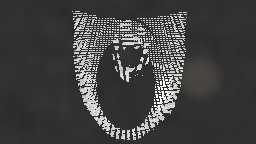
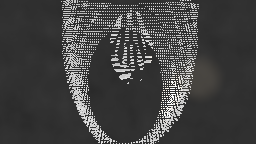
T1205: E44 Sounding sizes its cloud — pointTransform's first example
T728's complaint is nodes that appear in no example. This is the one where
the node is not a decoration: E44's cloud size was NOT AUTHORABLE.

`cloud1.sizeX/sizeY` are pinned at exactly 2.0 by T830 because `tint1` reads
`position.xy` back as a UV — they are a data contract, not a size, and the
file's own note records what 2.6x1.95 did to the picture. `draw1.scale` sizes
each BOX, so turning it up fuses the lattice into a slab. And the camera cannot
do it either, because `plate1` adds the source at full frame, so an eye move
slides the cloud against a backdrop that does not move. Three levers, none of
them the one wanted — which is the owner's complaint in a shipped file.

`xform1` sits between the bridge and the draw: upstream the cloud is still on
the clip square and T830 holds, downstream it is 1.2x and fills the margins the
shot was wasting. The boxes do not grow with it, which is the whole distinction.
Pivot centroid, doing real work rather than taking a default: this sheet's middle
in z is wherever the model put it and it moves, so an origin pivot would surge it
toward and away from the lens whenever the content changed depth.

1.2 was rendered, not reasoned: 1.3 pushes the sheet's outer arc onto the frame
edge (a cropped gallery card) and further still the relief reads as separate
motes rather than a surface. Both were built and looked at.

LOOK DELTA, deliberate, per V642/V643: motion 0.07293 -> 0.09205 (+26.2%),
[…]

Changed region(s): [[0.2188, 0.0, 0.7812, 1.0]]

diff --git a/src/examples/sounding-claims.gpu.test.ts b/src/examples/sounding-claims.gpu.test.ts
@@ -23,6 +23,8 @@ const document = EXAMPLE_DOCUMENTS.find((entry) => entry.name === "E44 Sounding"
 const SIZE = 128;
 /* T1076: a one-attribute producer's packed buffer IS the position region. */
 const POSITION = pointStorageId("cloud");
+/* T1205: and the same, for the positions AFTER `xform1` — the ones actually drawn. */
+const DRAWN = pointStorageId("xform");
 
 let dawnError: string | undefined;
 beforeAll(async () => {
@@ -59,11 +61,32 @@ async function positions(map: Uint8Array): Promise<Float32Array> {
     capture: [1],
     animate: true,
     inference: () => map,
-    probeBuffers: [POSITION],
+    probeBuffers: [POSITION, DRAWN],
   } as never);
   const raw = result.buffers?.[POSITION];
   expect(raw, `no position buffer for ${POSITION}`).toBeDefined();
+  const drawn = result.buffers?.[DRAWN];
+  expect(drawn, `no position buffer for ${DRAWN}`).toBeDefined();
   return new Float32Array(raw!);
+}
+
+/** Both halves of the chain at once: what the bridge reads, and what the draw draws. */
+async function bothSides(map: Uint8Array): Promise<{ read: Float32Array; drawn: Float32Array }> {
+  const result = await renderHeadless({
+    host: nodeGpuHost(),
+    graph: document!.graph as GraphDocument,
+    settings: { ...document!.settings, outputResolution: { width: SIZE, height: SIZE } },
+    frames: 2,
+    capture: [1],
+    animate: true,
+    inference: () => map,
+    probeBuffers: [POSITION, DRAWN],
+  } as never);
+  const read = result.buffers?.[POSITION];
+  const drawn = result.buffers?.[DRAWN];
+  expect(read, `no position buffer for ${POSITION}`).toBeDefined();
+  expect(drawn, `no position buffer for ${DRAWN}`).toBeDefined();
+  return { read: new Float32Array(read!), drawn: new Float32Array(drawn!) };
 }
 
 /** vec3f in a storage buffer is 16-byte aligned, so z sits at lane 2 of every 4. */
@@ -171,5 +194,73 @@ describe("E44 Sounding — the depth map IS the geometry", () => {
     // not. The orb is a bright disc on a dim bed, so the spread is large and real.
     const spread = Math.max(...reds) - Math.min(...reds);
     expect(spread).toBeGreaterThan(0.1);
+  });
+
+  /**
+   * T1205 — `xform1` SIZES THE CLOUD, AND IT HAS TO DO IT WITHOUT BREAKING §T830.
+   *
+   * The two are in tension and that tension is the reason the node is in this file.
+   * `cloud1.sizeX/sizeY` are pinned at 2.0 because `tint1` reads `position.xy` back as a
+   * UV, so the producer's size is a DATA CONTRACT and not a framing choice; the picture
+   * still needed to be bigger. So the transform sits downstream of the bridge, and both
+   * halves are asserted here at once: the cloud the bridge saw is still on the clip square,
+   * and the cloud the draw gets is 1.2× wider about the same middle.
+   *
+   * The ratio is derived from the read-back extents rather than from the authored 1.2, so
+   * a transform that scaled by the wrong amount, about the wrong pivot, or not at all is a
+   * different number here. And the centroid claim is the half that separates this from a
+   * plain multiply: scaling about the origin would move the cloud's middle by the same 1.2
+   * and pass the extent assertion on its own.
+   */
+  it("grows the DRAWN cloud past the clip square while the bridge still reads it on one", async () => {
+    if (dawnError !== undefined) return;
+    /* flat(200), NOT flat(128), and the difference is load-bearing — see the pivot claim
+       at the bottom. A mid-grey map puts the sheet at z ~ 0, and a cloud whose middle is
+       the origin cannot tell a centroid pivot from an origin one. 200 stands it off at
+       z ~ 0.54, where the two answers differ. */
+    const { read, drawn } = await bothSides(flat(200));
+
+    const spanAndMiddle = (data: Float32Array, axis: number): { span: number; middle: number } => {
+      let lo = Infinity;
+      let hi = -Infinity;
+      let total = 0;
+      let seen = 0;
+      for (let i = axis; i < data.length; i += 4) {
+        const value = data[i] as number;
+        if (value < lo) lo = value;
+        if (value > hi) hi = value;
+        total += value;
+        seen += 1;
+      }
+      return { span: hi - lo, middle: total / seen };
+    };
+
+    // THE EXTENT, on the two axes the lattice actually spans.
+    for (const axis of [0, 1]) {
+      const before = spanAndMiddle(read, axis);
+      const after = spanAndMiddle(drawn, axis);
+
+      // §T830 SURVIVES: the bridge's cloud sits inside the clip square, which is the only
+      // reason `tint1` can read a position back as a UV at all. If a later hand moved the
+      // transform above the bridge, this is what says so.
+      expect(before.span, `axis ${axis} is not on the clip square any more`).toBeLessThanOrEqual(2);
+
+      // …and the drawn cloud is 1.2x of it. Derived from the measurement rather than
+      // asserted at the authored number, so "it scaled by something" does not pass.
+      expect(after.span / before.span, `axis ${axis} scale`).toBeCloseTo(1.2, 4);
+    }
+
+    /* ⚑ THE PIVOT, AND IT IS PINNED ON Z FOR A REASON WORTH WRITING DOWN. On x and y this
+       lattice is symmetric about the origin, so its middle IS the origin — and a cloud
+       centred on the origin cannot distinguish a centroid pivot from an origin one, because
+       1.2 x 0 is 0. The claim would read as green while saying nothing. In z the sheet
+       stands off at ~0.54, so the two answers are 0.54 and 0.65 and only one of them is
+       "it grew where it stood". */
+    const beforeZ = spanAndMiddle(read, 2);
+    const afterZ = spanAndMiddle(drawn, 2);
+    expect(beforeZ.middle, "the fixture must stand the sheet OFF z=0 or the next line is vacuous")
+      .toBeGreaterThan(0.1);
+    expect(afterZ.middle, "the cloud's middle moved — that is an origin pivot, not a centroid one")
+      .toBeCloseTo(beforeZ.middle, 5);
   });
 });

diff --git a/src/examples/documents/sounding.ts b/src/examples/documents/sounding.ts
@@ -106,6 +106,39 @@ export const soundingDocument = document(
       // colour is textureToAttribute's job by composition) and hands `draw1` a per-point
       // colour, so the cloud IS the video standing up in depth — E27's lesson, its own path.
       node("tint", "textureToAttribute", [-1120, -60], { count: 6912 }, { label: "tint1" }),
+      /*
+       * T1205 — THE CLOUD'S SIZE, WHICH UNTIL THIS NODE WAS NOT AUTHORABLE AT ALL.
+       *
+       * `cloud1.sizeX/sizeY` are pinned at exactly 2.0 by §T830 and cannot be the lever:
+       * they are a DATA CONTRACT, not a size — `tint1` reads `position.xy` back as a UV, so
+       * any other number puts the colour on the wrong box (the file's own note records what
+       * 2.6x1.95 did: the image squished into the middle columns and smeared at the edges).
+       * And `draw1.scale` is the OTHER thing that is not this: it sizes each box, so turning
+       * it up fuses the lattice into an opaque slab instead of making the cloud bigger. So
+       * the sheet was stuck at the clip square, and the only remaining lever was the camera
+       * — which cannot be it either, because `plate1` ADDS the source picture underneath at
+       * full frame, and a camera move slides the cloud against a plate that does not move.
+       *
+       * This node is the lever, and it sits AFTER `tint1` on purpose: the bridge upstream
+       * still reads a cloud on the clip square, so §T830's contract is untouched, and only
+       * what gets DRAWN grows. That is the whole argument for a transform on the data rather
+       * than a matrix on the renderer — the constraint and the framing live at different
+       * points of one chain, and a node lets them.
+       *
+       * PIVOT: CENTROID, and here it is doing real work rather than taking a default. This
+       * sheet's middle in z is wherever the depth model put it, and it MOVES — the orb
+       * swings, the relief re-reads every 2.6 s. About the ORIGIN, growing the cloud would
+       * also multiply that z, so the sheet would surge toward and away from the lens as the
+       * content changed depth. About its own centroid it grows where it stands.
+       */
+      node("xform", "pointTransform", [-1020, 140], {
+        // 1.2, and both bounds were rendered rather than reasoned. The boxes do NOT grow
+        // with the cloud — that is the point — so the lattice reads airier as it spreads;
+        // 1.3 already pushes the sheet's outer arc onto the frame edge, which is a cropped
+        // gallery card, and further still the relief reads as separate motes rather than as
+        // a surface. 1.2 fills the dead margins the shot used to carry and touches nothing.
+        scale: [1.2, 1.2, 1.2], translate: [0, 0, 0], rotate: [0, 0, 0], pivot: "centroid",
+      }, { label: "xform1" }),
 
       // ---- the look: a dense box cloud, lit, seen from off-axis so relief reads -----
       node("draw", "renderInstances", [-920, -60], {
@@ -164,7 +197,9 @@ export const soundingDocument = document(
       // the undimmed picture) to give each point the video's own colour before the draw.
       edge("e-cloud-tint", ["cloud", "out"], ["tint", "points"]),
       edge("e-pick-tint", ["pick", "out"], ["tint", "texture"]),
-      edge("e-tint-draw", ["tint", "out"], ["draw", "points"]),
+      // T1205: the transform sits between the bridge and the draw — see xform1's note.
+      edge("e-tint-xform", ["tint", "out"], ["xform", "points"]),
+      edge("e-xform-draw", ["xform", "out"], ["draw", "points"]),
       edge("e-pick-dim", ["pick", "out"], ["dim", "input"]),
       edge("e-draw-plate", ["draw", "out"], ["plate", "in1"]),
       edge("e-dim-plate", ["dim", "out"], ["plate", "in2"]),

diff --git a/examples/E44-Sounding.md b/examples/E44-Sounding.md
@@ -17,7 +17,7 @@ clip1(movieFileIn) ──────────── order 1 ─┘      │ 
                                                 ▼                   ▼
 out1 ◄─ plate1(add) ◄─ dim1(level) ◄────────────┘   tint1(textureToAttribute) ◄ cloud1(GRID)
             ▲                                                │
-            └──────────── draw1(renderInstances, 6912 boxes) ◄┘
+            └── draw1(renderInstances, 6912 boxes) ◄ xform1(pointTransform, 1.2× ⌾ centroid) ◄┘
 ```
 
 ## It opens flat, and that is the design
@@ -31,6 +31,28 @@ No example had ever exercised that path. `sounding-claims.gpu.test.ts` asserts b
 it on the position buffer rather than on pixels: mid-grey in gives a cloud whose z-spread is
 under 0.01, and a left-to-right brightness ramp gives a left-to-right rise that is monotonic
 across every one of 96 columns. A screenshot cannot tell a real relief from a plausible one.
+
+## The cloud's size is not the cloud producer's size
+
+`cloud1.sizeX/sizeY` look like the lever for "make it bigger" and are not one. They are
+pinned at exactly 2.0 because `tint1` reads each point's `position.xy` back as a UV — that
+is what puts the video's own colour on the right box — so any other number lands the picture
+on the wrong points. `draw1.scale` is not the lever either: it sizes each *box*, so turning
+it up fuses the lattice into a slab instead of enlarging the cloud. And the camera cannot do
+it, because `plate1` adds the source picture underneath at full frame, so moving the eye
+slides the cloud against a backdrop that does not move.
+
+So `xform1` does it, sitting between the bridge and the draw. Upstream of it the cloud is
+still on the clip square and the UV contract holds; downstream it is 1.2× larger and fills
+the margins the shot used to waste. The boxes do not grow with it — a point transform moves
+points and leaves their size alone, which is the whole distinction from `draw1.scale` — so
+the lattice reads a little airier as it spreads.
+
+It scales about the cloud's **centroid**, and that is not a default taken for free. This
+sheet's middle in depth is wherever the model put it, and it moves as the orb swings. About
+the origin, growing the cloud would multiply that depth too and the sheet would surge toward
+and away from the lens whenever the content changed distance. About its own centroid it
+grows where it stands.
 
 ## The camera pivots, and the sway is the depth cue
 
